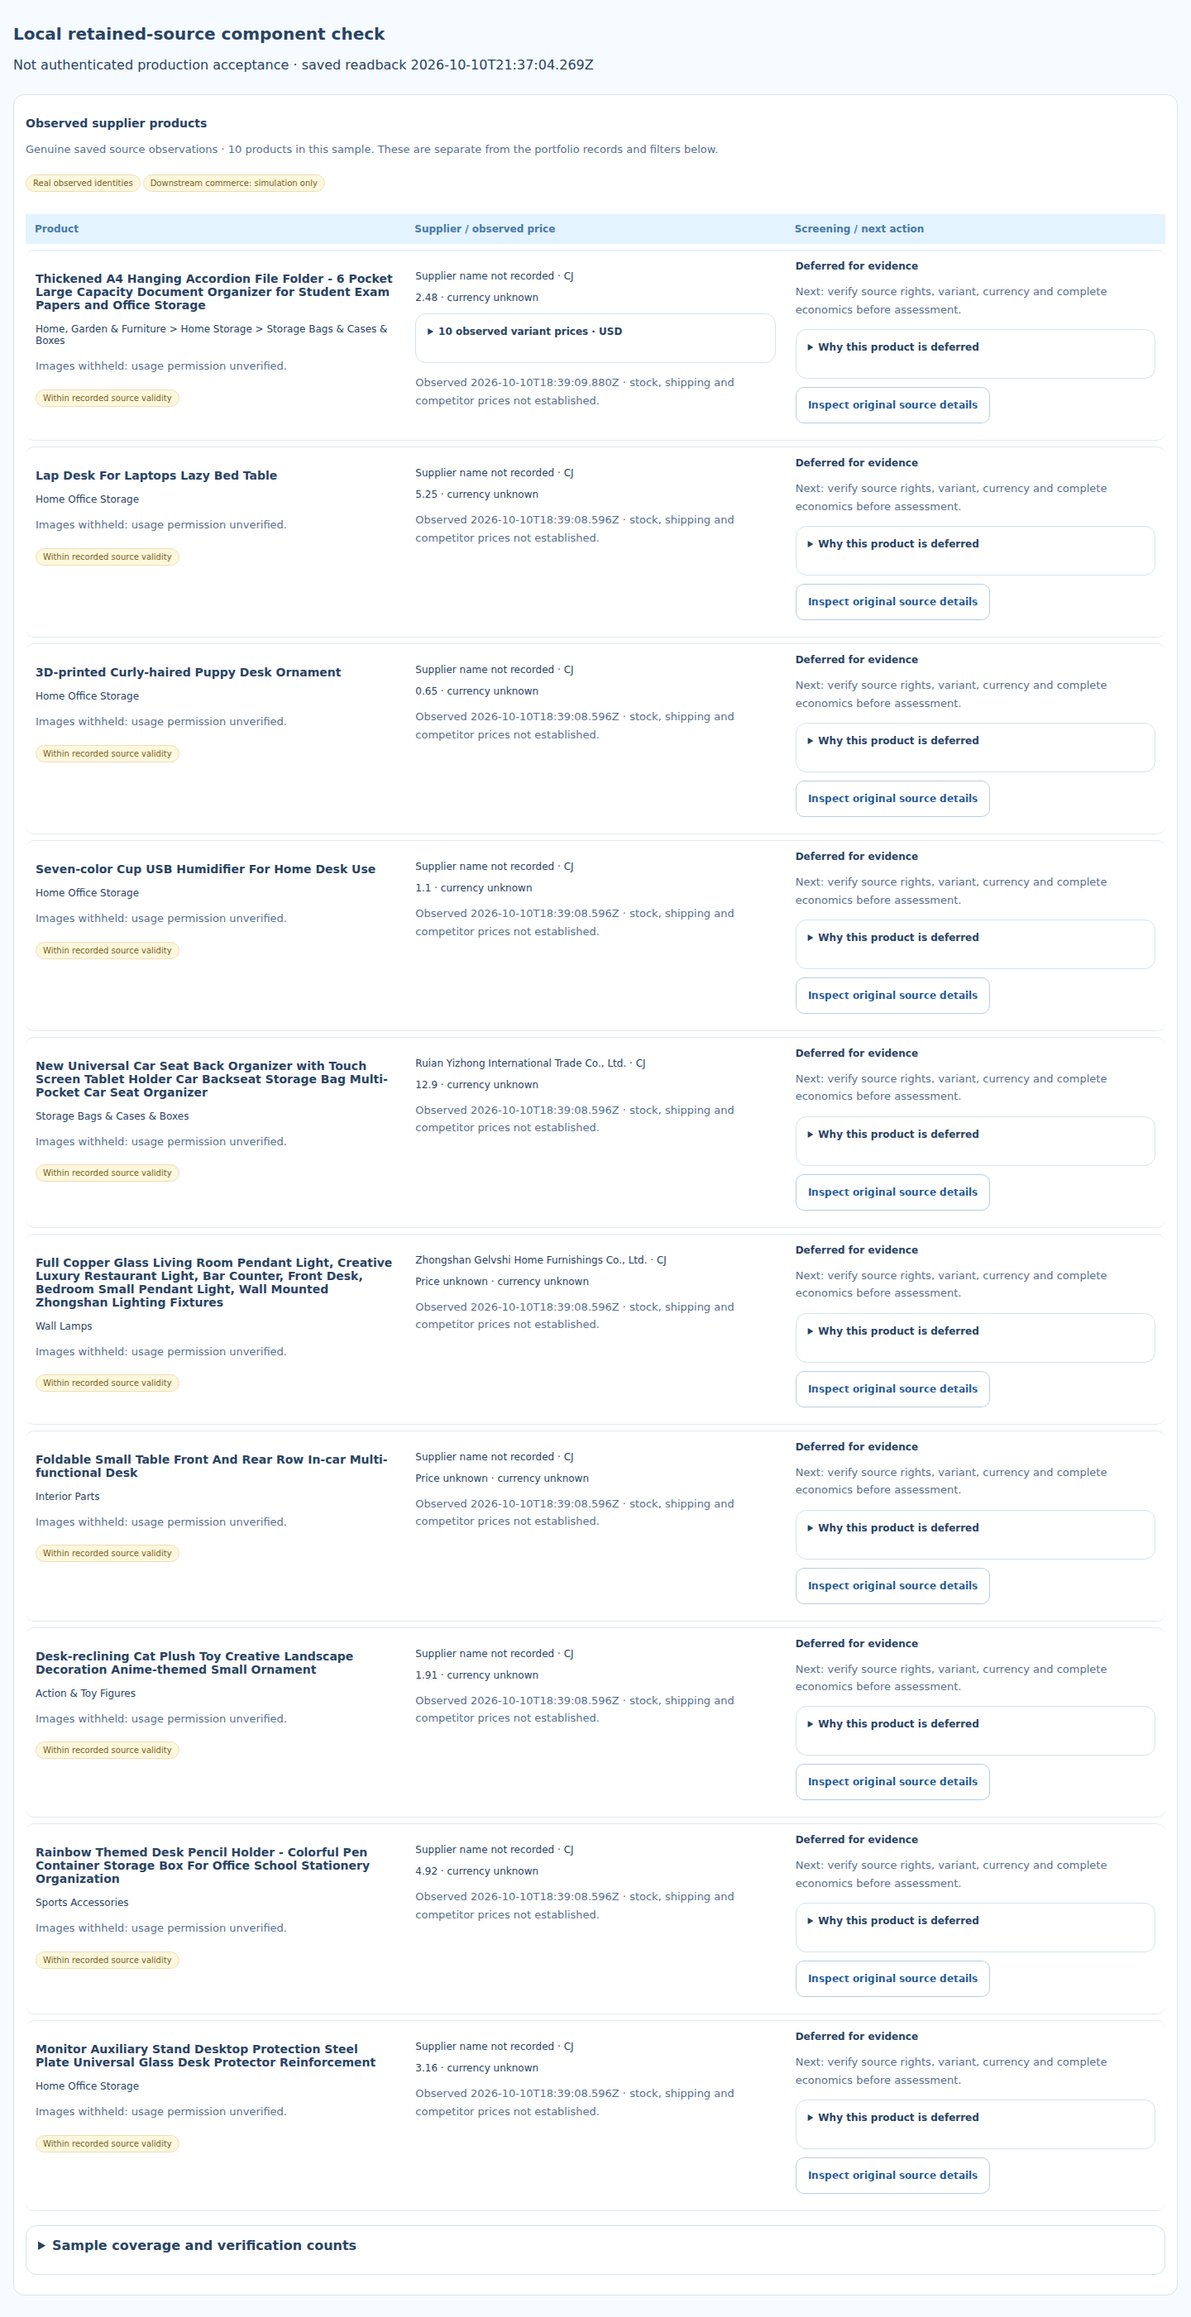
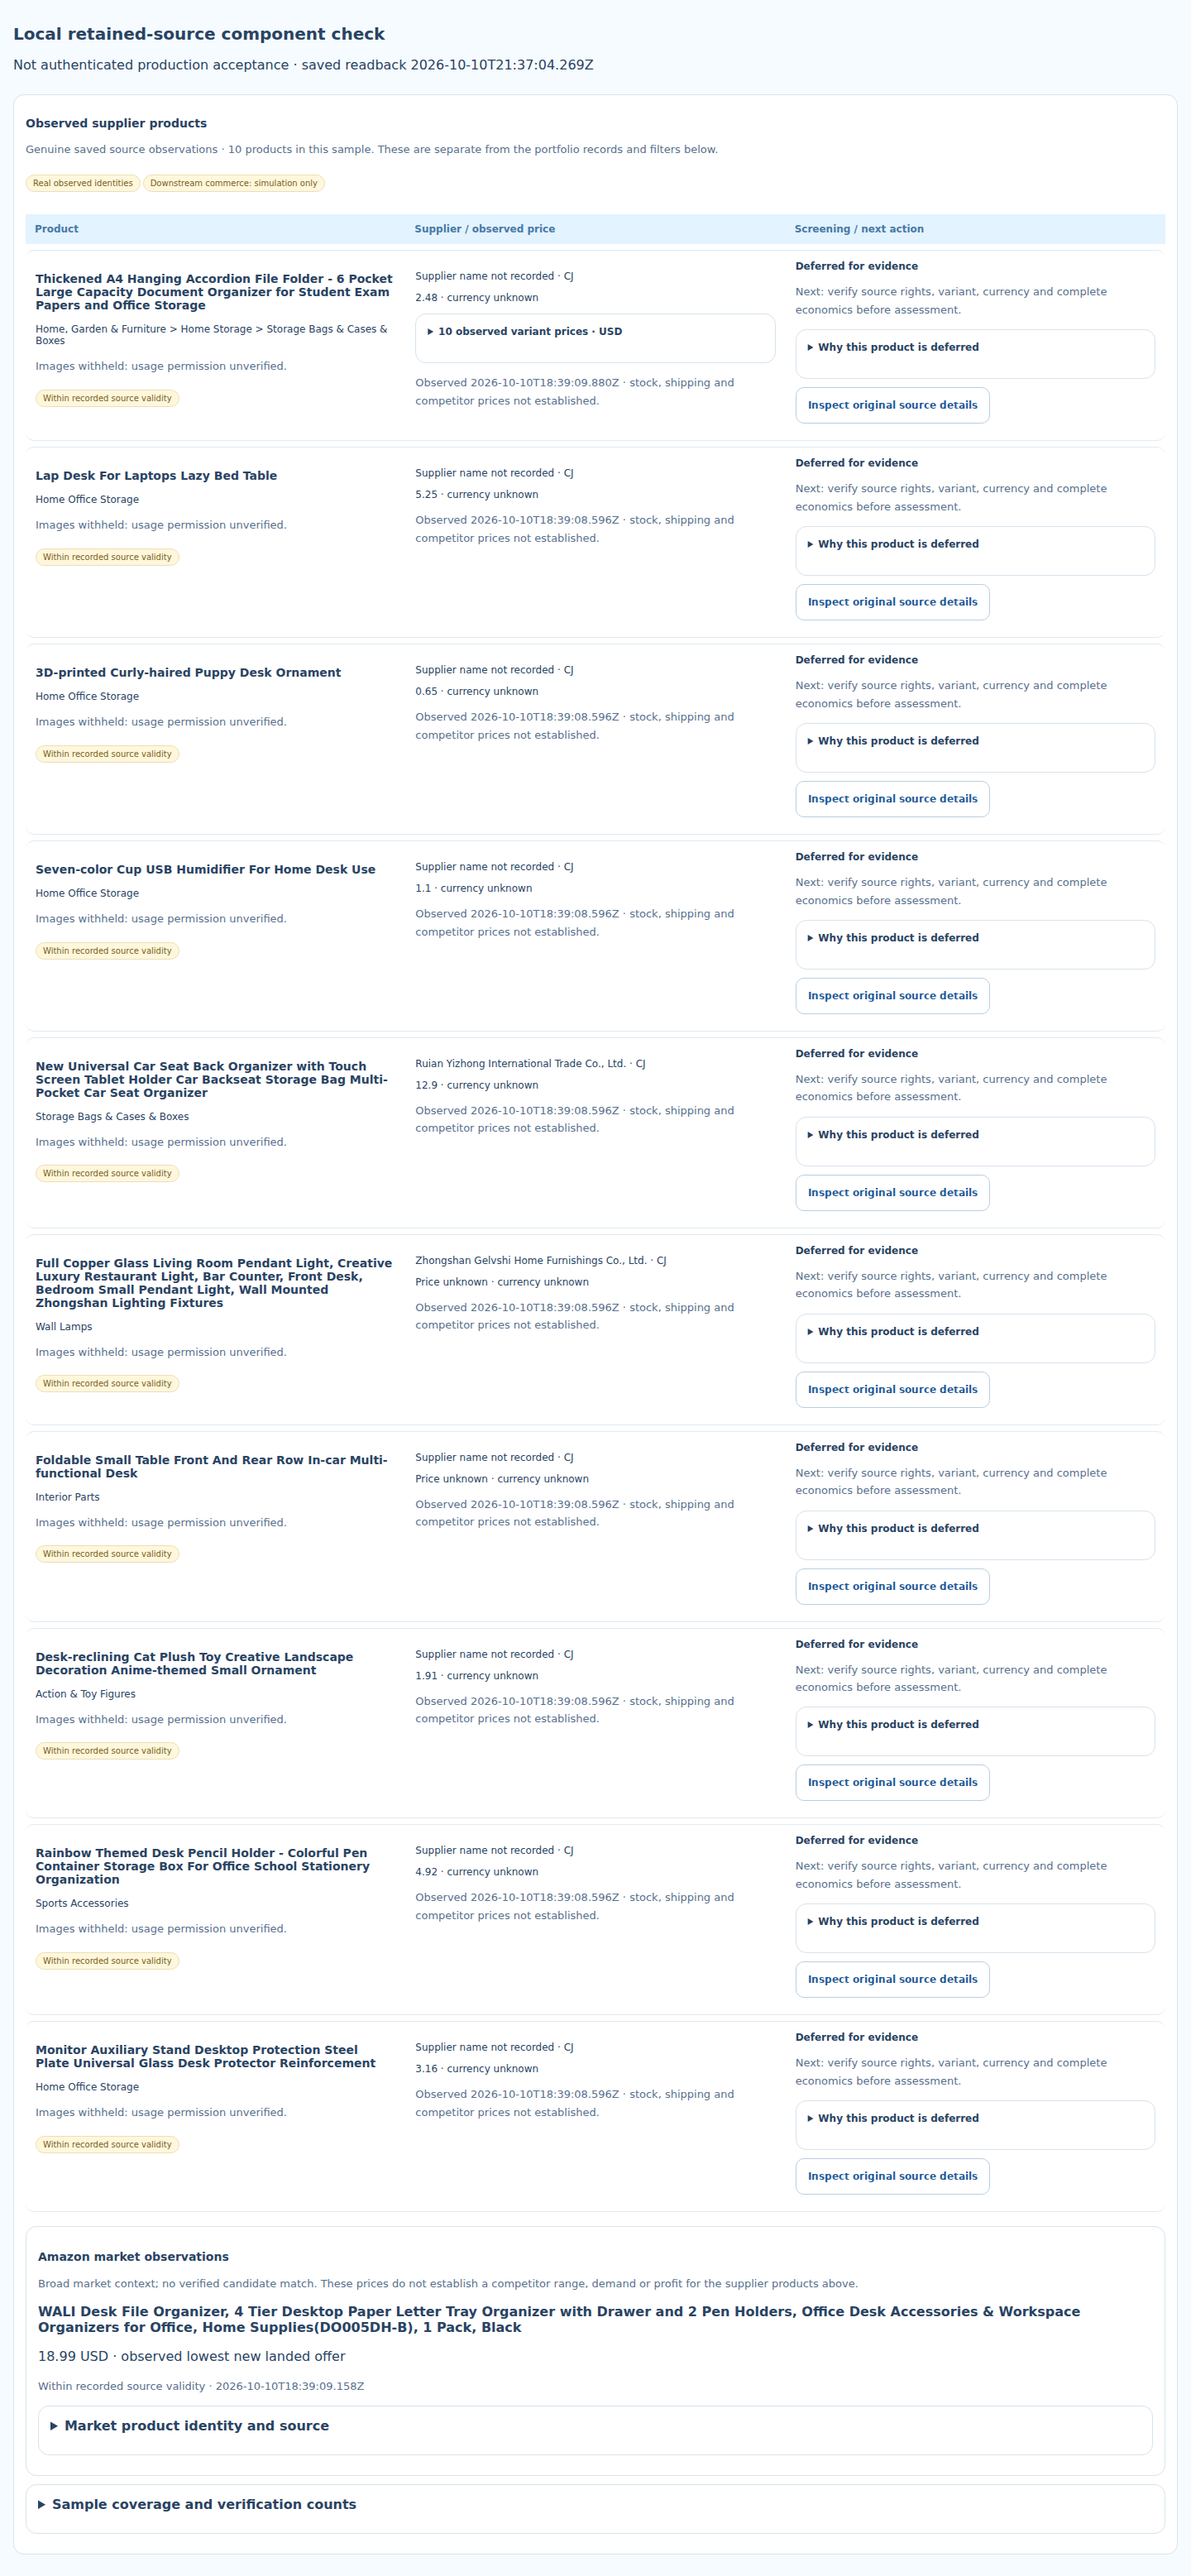
feat(work8): add separately verified Amazon context and repair SSR lint

diff --git a/empireai-web/components/owner/work7/OwnerJourneys.tsx b/empireai-web/components/owner/work7/OwnerJourneys.tsx
@@ -50,7 +50,7 @@ function SafetyLinks({ guards }: {
         string
     ][];
 }) { return <nav aria-label="Assurance and governance"><p className={s.note}>Assurance / Governance</p><div className={s.links} aria-label="Related safety guards">{guards.map(([id, name]) => <Link className={s.button} key={id} href={'/cockpit/assurance#safety-' + String(id).padStart(2, '0')}>{name} guard →</Link>)}</div></nav>; }
-export function Portfolio() { const [search, setSearch] = useState(''), [category, setCategory] = useState(''), [classification, setClassification] = useState('REAL_READ_ONLY'), [verdict, setVerdict] = useState(''), [sort, setSort] = useState('title'), [page, setPage] = useState(1), [size, setSize] = useState(10), [expanded, setExpanded] = useState(''), [tab, setTab] = useState('Listing'); const q = new URLSearchParams({ page: String(page), pageSize: String(size), search, category, classification, verdict, sort, direction: 'asc' }); const state = useRead('/api/owner/commerce/portfolio?' + q); const data = state.data, items = rows(data?.items); const change = (fn: (v: string) => void, v: string) => { fn(v); setPage(1); }; return <Page title="Products & Approvals" description="A compact, evidence-led portfolio. The 1,000 active-product ceiling is a limit, never a quota."><Links items={[["Historical provider reviews", "/cockpit/products/history"]]}/><section aria-label="Product selection journey"><h2 className={s.rowTitle}>Candidate decisions</h2><p className={s.note}>Software discovery &amp; screening → Pillow assessment → Owner selection → Authorised listing → Portfolio review</p><details className={s.details}><summary>Selection stages and portfolio policy</summary><p>Software gathers candidates, checks supplier and marketplace evidence, removes duplicates and applies preliminary eligibility and economic filters. Pillow assesses the shortlist and records reasons to recommend, reject or defer a candidate. Owner decisions and publication remain separately governed.</p><p>Future launch objective: up to 100 qualified products, with a hard ceiling of 1,000 active products. The 100-per-day objective concerns discovery and qualification, never automatic publication.</p><p>Portfolio reviews should recommend retain, improve, observe, pause, retire or replace using sales, margins, conversion, supplier reliability, returns and sufficient operating history. Retired records must remain available.</p><p>These are operating requirements, not a claim of active automation. Current saved stages and evidence appear below; complete discovery, rejection and Pillow-review totals are not supplied by this view.</p></details></section>{data&&<ObservedCandidates value={data.observedCandidates} discovery={data.retainedDiscovery}/>}<div className={s.toolbar}><label>Search title / SKU<input value={search} onChange={e => change(setSearch, e.target.value)}/></label><label>Category<input value={category} onChange={e => change(setCategory, e.target.value)}/></label><label>Product stage<select value={verdict} onChange={e => change(setVerdict, e.target.value)}><option value="">All states</option>{['DISCOVERED', 'QUALIFIED', 'PREPARED', 'REVIEWED', 'APPROVED', 'REJECTED'].map(v => <option key={v}>{v}</option>)}</select></label><label>Show products<select value={classification} onChange={e => change(setClassification, e.target.value)}><option value="REAL_READ_ONLY">Research candidates</option><option value="SYNTHETIC">Test examples</option><option value="ALL">All records</option></select></label><label>Sort<select value={sort} onChange={e => change(setSort, e.target.value)}><option value="title">Title</option><option value="updated">Observed date</option><option value="contribution">Estimated contribution</option></select></label></div><Status {...state}/>{data && <><Source data={data}/>{!items.length ? <div className={s.empty}><h2>No matching product records</h2><p>Adjust the filters or inspect explicitly isolated synthetic evidence. No live products or supplier availability are implied.</p><Links items={[["Inspect saved research", '/cockpit/intelligence/products']]}/></div> : <table className={s.table}><thead><tr>{['Product / thumbnail', 'Category', 'Selling / competitor range', 'Estimated unit economics', 'Screening / decisions'].map(h => <th key={h}>{h}</th>)}</tr></thead><tbody>{items.map(p => <ProductRows key={txt(p.missionId)} p={p} expanded={expanded === p.missionId} onExpand={() => setExpanded(expanded === p.missionId ? '' : txt(p.missionId))} tab={tab} setTab={setTab}/>)}</tbody></table>}<div className={s.toolbar}><button disabled={page <= 1} onClick={() => setPage(v => v - 1)}>Previous</button><p className={s.note}>Page {page} of {Math.max(1, Number(data.pages) || 1)} · {txt(data.total, '0')} records</p><button disabled={page >= Number(data.pages) || !items.length} onClick={() => setPage(v => v + 1)}>Next</button><label>Rows per page<select value={size} onChange={e => { setSize(Number(e.target.value)); setPage(1); }}>{[10, 25, 50].map(n => <option key={n}>{n}</option>)}</select></label></div></>}</Page>; }
+export function Portfolio() { const [search, setSearch] = useState(''), [category, setCategory] = useState(''), [classification, setClassification] = useState('REAL_READ_ONLY'), [verdict, setVerdict] = useState(''), [sort, setSort] = useState('title'), [page, setPage] = useState(1), [size, setSize] = useState(10), [expanded, setExpanded] = useState(''), [tab, setTab] = useState('Listing'); const q = new URLSearchParams({ page: String(page), pageSize: String(size), search, category, classification, verdict, sort, direction: 'asc' }); const state = useRead('/api/owner/commerce/portfolio?' + q); const data = state.data, items = rows(data?.items); const change = (fn: (v: string) => void, v: string) => { fn(v); setPage(1); }; return <Page title="Products & Approvals" description="A compact, evidence-led portfolio. The 1,000 active-product ceiling is a limit, never a quota."><Links items={[["Historical provider reviews", "/cockpit/products/history"]]}/><section aria-label="Product selection journey"><h2 className={s.rowTitle}>Candidate decisions</h2><p className={s.note}>Software discovery &amp; screening → Pillow assessment → Owner selection → Authorised listing → Portfolio review</p><details className={s.details}><summary>Selection stages and portfolio policy</summary><p>Software gathers candidates, checks supplier and marketplace evidence, removes duplicates and applies preliminary eligibility and economic filters. Pillow assesses the shortlist and records reasons to recommend, reject or defer a candidate. Owner decisions and publication remain separately governed.</p><p>Future launch objective: up to 100 qualified products, with a hard ceiling of 1,000 active products. The 100-per-day objective concerns discovery and qualification, never automatic publication.</p><p>Portfolio reviews should recommend retain, improve, observe, pause, retire or replace using sales, margins, conversion, supplier reliability, returns and sufficient operating history. Retired records must remain available.</p><p>These are operating requirements, not a claim of active automation. Current saved stages and evidence appear below; complete discovery, rejection and Pillow-review totals are not supplied by this view.</p></details></section>{data&&<ObservedCandidates value={data.observedCandidates} discovery={data.retainedDiscovery} marketContext={data.marketContext}/>}<div className={s.toolbar}><label>Search title / SKU<input value={search} onChange={e => change(setSearch, e.target.value)}/></label><label>Category<input value={category} onChange={e => change(setCategory, e.target.value)}/></label><label>Product stage<select value={verdict} onChange={e => change(setVerdict, e.target.value)}><option value="">All states</option>{['DISCOVERED', 'QUALIFIED', 'PREPARED', 'REVIEWED', 'APPROVED', 'REJECTED'].map(v => <option key={v}>{v}</option>)}</select></label><label>Show products<select value={classification} onChange={e => change(setClassification, e.target.value)}><option value="REAL_READ_ONLY">Research candidates</option><option value="SYNTHETIC">Test examples</option><option value="ALL">All records</option></select></label><label>Sort<select value={sort} onChange={e => change(setSort, e.target.value)}><option value="title">Title</option><option value="updated">Observed date</option><option value="contribution">Estimated contribution</option></select></label></div><Status {...state}/>{data && <><Source data={data}/>{!items.length ? <div className={s.empty}><h2>No matching product records</h2><p>Adjust the filters or inspect explicitly isolated synthetic evidence. No live products or supplier availability are implied.</p><Links items={[["Inspect saved research", '/cockpit/intelligence/products']]}/></div> : <table className={s.table}><thead><tr>{['Product / thumbnail', 'Category', 'Selling / competitor range', 'Estimated unit economics', 'Screening / decisions'].map(h => <th key={h}>{h}</th>)}</tr></thead><tbody>{items.map(p => <ProductRows key={txt(p.missionId)} p={p} expanded={expanded === p.missionId} onExpand={() => setExpanded(expanded === p.missionId ? '' : txt(p.missionId))} tab={tab} setTab={setTab}/>)}</tbody></table>}<div className={s.toolbar}><button disabled={page <= 1} onClick={() => setPage(v => v - 1)}>Previous</button><p className={s.note}>Page {page} of {Math.max(1, Number(data.pages) || 1)} · {txt(data.total, '0')} records</p><button disabled={page >= Number(data.pages) || !items.length} onClick={() => setPage(v => v + 1)}>Next</button><label>Rows per page<select value={size} onChange={e => { setSize(Number(e.target.value)); setPage(1); }}>{[10, 25, 50].map(n => <option key={n}>{n}</option>)}</select></label></div></>}</Page>; }
 function ProductRows({ p, expanded, onExpand, tab, setTab }: {
     p: Row;
     expanded: boolean;

diff --git a/empireai-web/components/owner/work7/ObservedCandidates.tsx b/empireai-web/components/owner/work7/ObservedCandidates.tsx
@@ -16,8 +16,8 @@ const reasons: Record<string, string> = {
 };
 
 /** Retained provider observations are separate from qualified missions and never imply approval. */
-export function ObservedCandidates({value,discovery}: {value: unknown;discovery?:unknown}) {
- const data=row(value), products=list(data.products), counts=row(data.counts), scan=row(discovery), checkpoint=row(scan.checkpoint);
+export function ObservedCandidates({value,discovery,marketContext}: {value: unknown;discovery?:unknown;marketContext?:unknown}) {
+ const data=row(value), products=list(data.products), counts=row(data.counts), scan=row(discovery), checkpoint=row(scan.checkpoint), marketData=row(marketContext), marketObservations=list(marketData.observations);
  if(!value)return null;
  return <section aria-label="Observed supplier products" className={s.details}>
   <h2 className={s.rowTitle}>Observed supplier products</h2>
@@ -32,6 +32,7 @@ export function ObservedCandidates({value,discovery}: {value: unknown;discovery?
     <td data-label="Screening / next action"><strong>Deferred for evidence</strong><p className={s.note}>Next: verify source rights, variant, currency and complete economics before assessment.</p><details className={s.details}><summary>Why this product is deferred</summary><ul>{(Array.isArray(product.reasons)?product.reasons:[]).map((reason,index)=><li key={String(index)}>{typeof reason==='string'?(reasons[reason]??'Additional source verification required'):'Additional source verification required'}</li>)}</ul><p>No completed Pillow assessment or owner recommendation is established by this observation.</p></details><TechnicalEvidence label="Inspect original source details" value={product}/></td>
    </tr>)}</tbody>
   </table>}
+  {marketContext?<section className={s.details} aria-label="Broad market observations"><h3 className={s.rowTitle}>Amazon market observations</h3><p className={s.note}>Broad market context; no verified candidate match. These prices do not establish a competitor range, demand or profit for the supplier products above.</p>{marketObservations.length?marketObservations.map((observation,index)=><article key={text(observation.asin,String(index))}><strong>{text(observation.title,'Observed marketplace product')}</strong><p>{typeof observation.price==='number'&&Number.isFinite(observation.price)?observation.price.toLocaleString('en-SG',{maximumFractionDigits:2}):'Price unknown'} {text(observation.currency,'currency unknown')} · observed lowest new landed offer</p><p className={s.note}>{observation.freshness==='FRESH'?'Within recorded source validity':'Historical observation'} · {text(observation.observedAt)}</p><details className={s.details}><summary>Market product identity and source</summary><p>ASIN: {text(observation.asin)} · {text(observation.marketplace)}</p><p>No verified match to a supplier candidate. Unit sales and image permissions are not established.</p><TechnicalEvidence label="Inspect marketplace source details" value={observation}/></details></article>):<p>Matched catalogue and offer evidence is unavailable in this retained sample.</p>}</section>:null}
   <details className={s.details}><summary>Sample coverage and verification counts</summary><p>Source identity matches: {typeof counts.sourceIdentityMatches==='number'?counts.sourceIdentityMatches:'Unknown'} / {products.length}. Image usage rights verified: {typeof counts.validImagesWithRights==='number'?counts.validImagesWithRights:'Unknown'} / {typeof counts.observedImages==='number'?counts.observedImages:'unknown'} observed URLs. Prices with currency: {typeof counts.pricesWithCurrency==='number'?counts.pricesWithCurrency:'Unknown'} / {products.length} products. Separately, {typeof counts.variantPricesWithDocumentedCurrency==='number'?counts.variantPricesWithDocumentedCurrency:0} observed variants have documented currency.</p><p className={s.note}>Latest 100 saved evidence records only. No new supplier request or paid assessment is triggered by this view. Freshness is evaluated when the page loads; refresh to recheck. Recorded prices are observations, not guaranteed quotes.</p></details>
  </section>;
 }

diff --git a/docs/work8/ci-followup.md b/docs/work8/ci-followup.md
@@ -1,0 +1,5 @@
+# Exact-head CI followup
+
+PR112 initial head d35cbd41d1a7ec74d0ac734c9e2c10ab1ee96955 passed semantic, runtime, owner-browser workflows. Product path failed solely on four new CommonJS SSR harness variables named module (Next lint rule). Repaired the harness variable names; ten SSR tests and focused component/harness ESLint pass. The first rename missed one reference and failed three local tests; corrected and ten tests passed. No lint rule or gate disabled. Full CI must rerun on the new candidate.
+
+Adds separately labelled Amazon market context from saved authenticated evidence: catalogue identities and one18.99USD offer; no verified CJ competitor match. Images remain withheld. Local source-market screenshots are exact-pixel lossless WebP exports of reproducible PNG captures. No hosted visual acceptance inferred.
